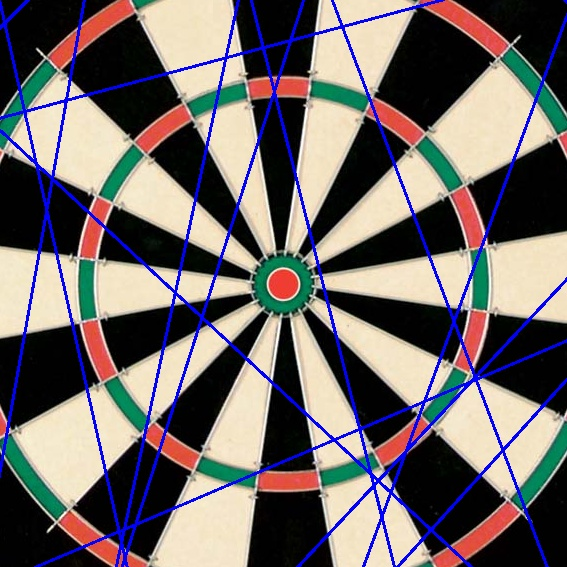
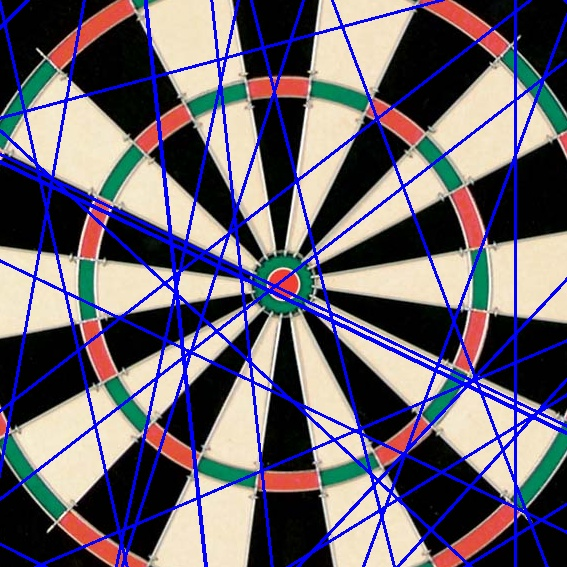
Working a bit better after change loop to magnitude width/height. Check offsets?

diff --git a/hough/sobel.cpp b/hough/sobel.cpp
@@ -136,6 +136,7 @@ void convolutionDX(Mat &input, int size, Mat &output) {
 	// Gaussian blur before finding derivation
 	GaussianBlur(paddedInput, paddedInput, Size(3,3), 0, 0, BORDER_DEFAULT);
 
+
   // Time to do convolution
   for (int i = 0; i < input.rows; i++) {
      for (int j = 0; j < input.cols; j++) {
@@ -205,6 +206,7 @@ void convolutionDY(Mat &input, int size, Mat &output) {
 
 	// Gaussian blur before finding derivation
 	GaussianBlur(paddedInput, paddedInput, Size(3,3), 0, 0, BORDER_DEFAULT);
+
 
   // Time to do convolution
   for (int i = 0; i < input.rows; i++) {
@@ -328,15 +330,17 @@ void getHoughSpace( Mat &thresholdedMag, Mat &gradientDirection, int threshold, 
 
 	houghSpace.create(180, round(maxDist), CV_64F);
 
-	for (int y = 0; y < houghSpace.rows; y++) {
-		for (int x = 0; x < houghSpace.cols; x++) {
-			if (thresholdedMag.at<double>(y, x) == 255) {
-				for (int theta = 0; theta < 180; theta += 10) {
+	for (int y = 0; y < thresholdedMag.rows; y++) {
+		for (int x = 0; x < thresholdedMag.cols; x++) {
+			if (thresholdedMag.at<double>(y, x) > 240) {
+				//double directionVal = gradientDirection.at<double>(y, x)
+				for (int theta = 0; theta < 180; theta += 45) {
 						radians = theta * (PI/ 180);
 
 						rho = ((x - centreX) * cos(radians)) + ((y - centreY) * sin(radians));
+						// rho = (x * cos(radians)) - centreX + (y * sin(radians)) - centreY;
 
-						houghSpace.at<double>(round(rho + maxDist), theta)++;
+						houghSpace.at<double>( theta, round(rho + maxDist) )++;
 						// std::cout << round(rho + maxDist) << " and " << theta << "\n";
 				}
 			}
@@ -348,11 +352,9 @@ void getHoughSpace( Mat &thresholdedMag, Mat &gradientDirection, int threshold, 
 
 	//normalize(houghSpace, img, 0, 255, NORM_MINMAX);
 
+	// Thresholding Hough space
 	for (int y = 0; y < img.rows; y++) {
 		for (int x = 0; x < img.cols; x++) {
-			// if (y == 400) {
-			// 	std::cout << x << " ";
-			// }
 
 			double val = 0.0;
       val = houghSpace.at<double>(y, x);
@@ -381,7 +383,8 @@ void drawFoundLines( Mat &image, int width, int height ){
 
 		double a = cos(thetaValues[i]);
 		double b = sin(thetaValues[i]);
-		double x0 = a*rhoValues[i] + centreX, y0 = b*rhoValues[i] + centreY;
+		double x0 = a*rhoValues[i] + centreX;
+		double y0 = b*rhoValues[i] + centreY;
 
 		point1.x = cvRound(x0 + 1000*(-b));
 		point1.y = cvRound(y0 + 1000*(a));

diff --git a/hough/houghOpenCV.cpp b/hough/houghOpenCV.cpp
@@ -1,0 +1,65 @@
+#include <stdio.h>
+#include <opencv/cv.h>        //you may need to
+#include <opencv/highgui.h>   //adjust import locations
+#include <opencv/cxcore.h>    //depending on your machine setup
+#include <math.h>
+#include <iostream>
+
+using namespace cv;
+using namespace std;
+
+void help()
+{
+ cout << "\nThis program demonstrates line finding with the Hough transform.\n"
+         "Usage:\n"
+         "./houghlines <image_name>, Default is pic1.jpg\n" << endl;
+}
+
+int main(int argc, char** argv)
+{
+ const char* filename = argc >= 2 ? argv[1] : "dart.bmp";
+
+ Mat src = imread(filename, 0);
+ if(src.empty())
+ {
+     help();
+     cout << "can not open " << filename << endl;
+     return -1;
+ }
+
+ Mat dst, cdst;
+ Canny(src, dst, 50, 200, 3);
+ cvtColor(dst, cdst, CV_GRAY2BGR);
+
+ #if 0
+  vector<Vec2f> lines;
+  HoughLines(dst, lines, 1, CV_PI/180, 100, 0, 0 );
+
+  for( size_t i = 0; i < lines.size(); i++ )
+  {
+     float rho = lines[i][0], theta = lines[i][1];
+     Point pt1, pt2;
+     double a = cos(theta), b = sin(theta);
+     double x0 = a*rho, y0 = b*rho;
+     pt1.x = cvRound(x0 + 1000*(-b));
+     pt1.y = cvRound(y0 + 1000*(a));
+     pt2.x = cvRound(x0 - 1000*(-b));
+     pt2.y = cvRound(y0 - 1000*(a));
+     line( cdst, pt1, pt2, Scalar(0,0,255), 3, CV_AA);
+  }
+ #else
+  vector<Vec4i> lines;
+  HoughLinesP(dst, lines, 1, CV_PI/180, 50, 50, 10 );
+  for( size_t i = 0; i < lines.size(); i++ )
+  {
+    Vec4i l = lines[i];
+    line( cdst, Point(l[0], l[1]), Point(l[2], l[3]), Scalar(0,0,255), 3, CV_AA);
+  }
+ #endif
+ // imshow("source", src);
+ // imshow("detected lines", cdst);
+ imwrite("test.jpg", cdst);
+ // waitKey();
+
+ return 0;
+}
